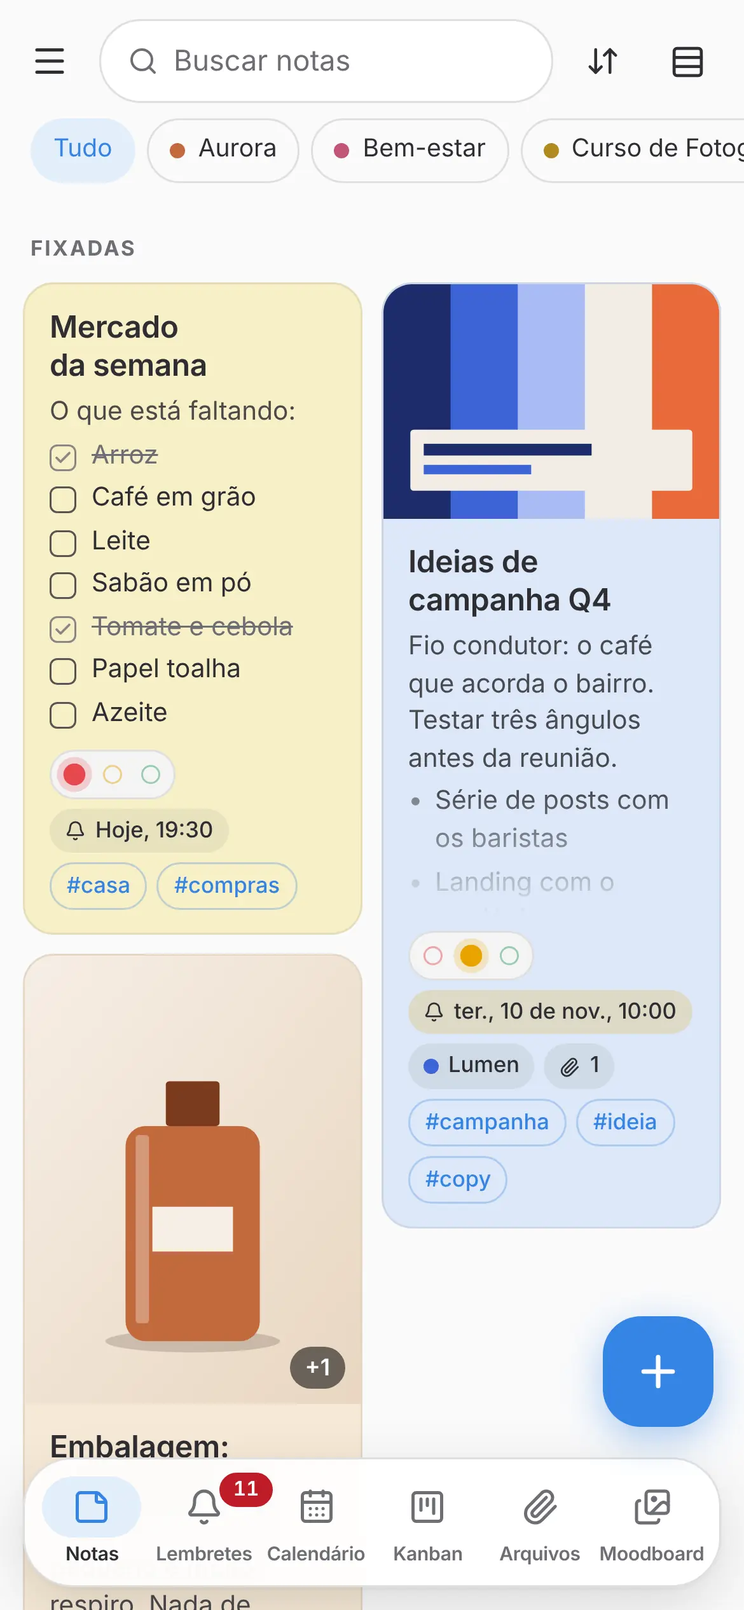
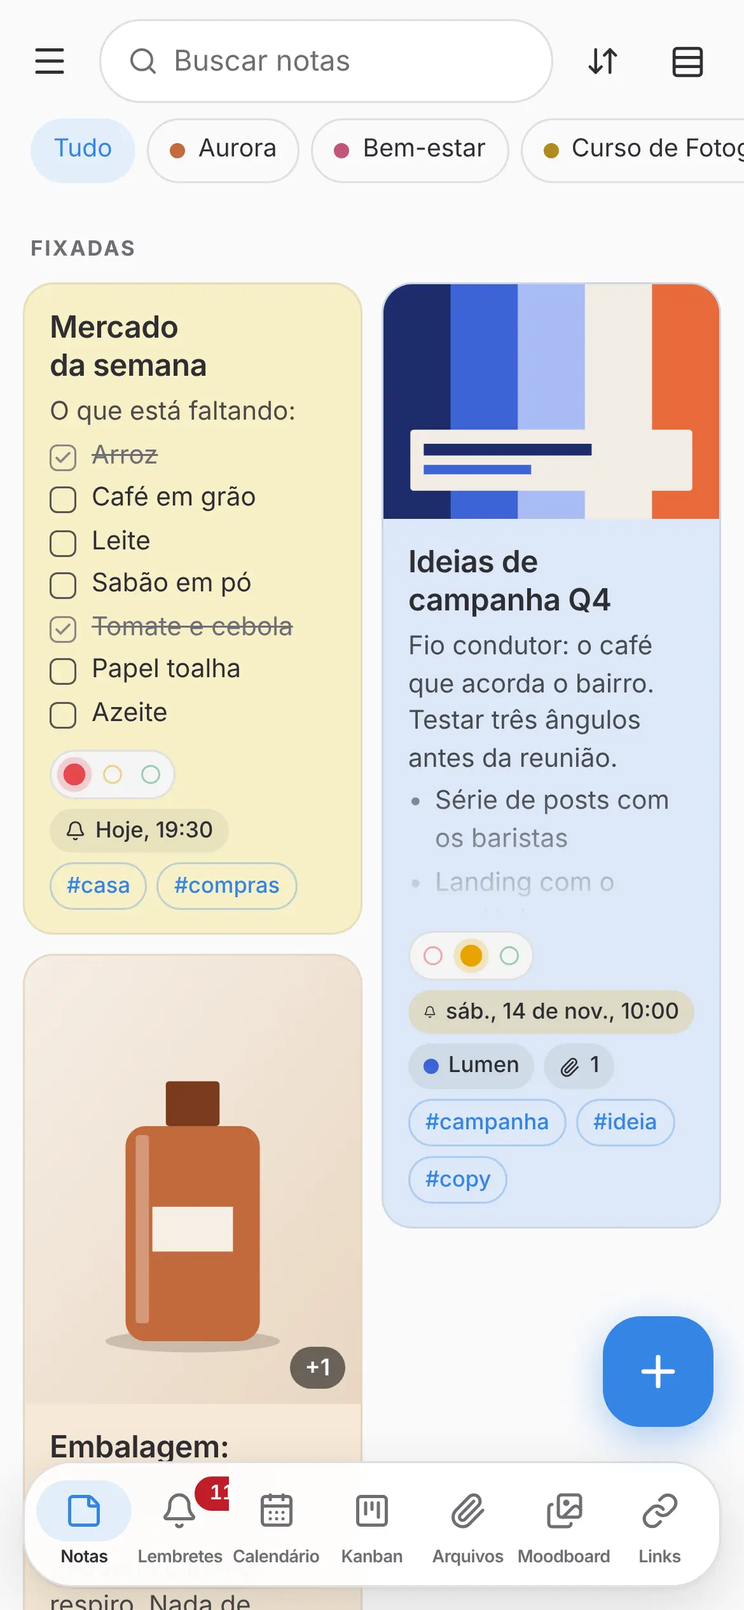
Site e README: versão 0.8, a visão Links (prints novos)
Claude-Session: https://claude.ai/code/session_017UoQrVG1M5AUcrq2RHmQhu

diff --git a/site/pt/index.html b/site/pt/index.html
@@ -71,6 +71,7 @@
     "https://ideario.pages.dev/img/pt/notas.webp",
     "https://ideario.pages.dev/img/pt/nota.webp",
     "https://ideario.pages.dev/img/pt/prompt.webp",
+    "https://ideario.pages.dev/img/pt/links.webp",
     "https://ideario.pages.dev/img/pt/calendario.webp",
     "https://ideario.pages.dev/img/pt/kanban.webp"
   ],
@@ -85,7 +86,8 @@
     "Prompts para o Claude dentro do texto da nota",
     "Link na palavra, reunido numa lista de Links",
     "Abrir uma nota numa nova janela",
-    "Em português e inglês"
+    "Em português e inglês",
+    "Visão Links: todos os links das notas, com filtros por tipo, site, tag e status"
   ],
   "author": {
     "@type": "Person",
@@ -130,7 +132,7 @@
       <a class="btn primary" href="#baixar"><svg class="lucide" viewBox="0 0 24 24" width="18" height="18" fill="none" stroke="currentColor" stroke-width="2" stroke-linecap="round" stroke-linejoin="round" aria-hidden="true"><path d="M12 15V3"/><path d="M21 15v4a2 2 0 0 1-2 2H5a2 2 0 0 1-2-2v-4"/><path d="m7 10 5 5 5-5"/></svg>Baixar grátis</a>
       <a class="btn soft" href="https://github.com/wylho/ideario"><svg viewBox="0 0 16 16" width="18" height="18" aria-hidden="true"><path fill="currentColor" d="M8 0c4.42 0 8 3.58 8 8a8.013 8.013 0 0 1-5.45 7.59c-.4.08-.55-.17-.55-.38 0-.27.01-1.13.01-2.2 0-.75-.25-1.23-.54-1.48 1.78-.2 3.65-.88 3.65-3.95 0-.88-.31-1.59-.82-2.15.08-.2.36-1.02-.08-2.12 0 0-.67-.22-2.2.82-.64-.18-1.32-.27-2-.27-.68 0-1.36.09-2 .27-1.53-1.03-2.2-.82-2.2-.82-.44 1.1-.16 1.92-.08 2.12-.51.56-.82 1.28-.82 2.15 0 3.06 1.86 3.75 3.64 3.95-.23.2-.44.55-.51 1.07-.46.21-1.61.55-2.33-.66-.15-.24-.6-.83-1.23-.82-.67.01-.27.38.01.53.34.19.73.9.82 1.13.16.45.68 1.31 2.69.94 0 .67.01 1.3.01 1.49 0 .21-.15.45-.55.38A7.995 7.995 0 0 1 0 8c0-4.42 3.58-8 8-8Z"/></svg>Ver no GitHub</a>
     </div>
-    <p class="fine">Grátis e de código aberto · <a href="#novidades">Novo na versão 0.7: prompts para o Claude, link na palavra e a nota numa nova janela<svg class="lucide" viewBox="0 0 24 24" width="14" height="14" fill="none" stroke="currentColor" stroke-width="2" stroke-linecap="round" stroke-linejoin="round" aria-hidden="true"><path d="M5 12h14"/><path d="m12 5 7 7-7 7"/></svg></a></p>
+    <p class="fine">Grátis e de código aberto · <a href="#novidades">Novo na versão 0.8: a visão Links, todos os links das suas notas num lugar só<svg class="lucide" viewBox="0 0 24 24" width="14" height="14" fill="none" stroke="currentColor" stroke-width="2" stroke-linecap="round" stroke-linejoin="round" aria-hidden="true"><path d="M5 12h14"/><path d="m12 5 7 7-7 7"/></svg></a></p>
   </div>
 </section>
 
@@ -144,7 +146,7 @@
 <section class="section">
   <div class="wrap">
     <div class="section-head">
-      <span class="chip accent"><svg class="lucide" viewBox="0 0 24 24" width="14" height="14" fill="none" stroke="currentColor" stroke-width="2" stroke-linecap="round" stroke-linejoin="round" aria-hidden="true"><path d="M12.83 2.18a2 2 0 0 0-1.66 0L2.6 6.08a1 1 0 0 0 0 1.83l8.58 3.91a2 2 0 0 0 1.66 0l8.58-3.9a1 1 0 0 0 0-1.83z"/><path d="M2 12a1 1 0 0 0 .58.91l8.6 3.91a2 2 0 0 0 1.65 0l8.58-3.9A1 1 0 0 0 22 12"/><path d="M2 17a1 1 0 0 0 .58.91l8.6 3.91a2 2 0 0 0 1.65 0l8.58-3.9A1 1 0 0 0 22 17"/></svg>Uma nota, seis jeitos de ver</span>
+      <span class="chip accent"><svg class="lucide" viewBox="0 0 24 24" width="14" height="14" fill="none" stroke="currentColor" stroke-width="2" stroke-linecap="round" stroke-linejoin="round" aria-hidden="true"><path d="M12.83 2.18a2 2 0 0 0-1.66 0L2.6 6.08a1 1 0 0 0 0 1.83l8.58 3.91a2 2 0 0 0 1.66 0l8.58-3.9a1 1 0 0 0 0-1.83z"/><path d="M2 12a1 1 0 0 0 .58.91l8.6 3.91a2 2 0 0 0 1.65 0l8.58-3.9A1 1 0 0 0 22 12"/><path d="M2 17a1 1 0 0 0 .58.91l8.6 3.91a2 2 0 0 0 1.65 0l8.58-3.9A1 1 0 0 0 22 17"/></svg>Uma nota, sete jeitos de ver</span>
       <h2>Escreva uma vez. Veja do jeito que precisar.</h2>
       <p>Tudo começa numa nota. O resto são visões dela, e nada é copiado: mudou num lugar, mudou em todos. Categorias
       e tags filtram qualquer visão.</p>
@@ -156,6 +158,7 @@
       <div class="box"><span class="ico"><svg class="lucide" viewBox="0 0 24 24" width="20" height="20" fill="none" stroke="currentColor" stroke-width="2" stroke-linecap="round" stroke-linejoin="round" aria-hidden="true"><rect width="18" height="18" x="3" y="3" rx="2"/><path d="M8 7v7"/><path d="M12 7v4"/><path d="M16 7v9"/></svg></span><h3>Kanban</h3><p>Toda nota com status, em três colunas: a fazer, em andamento e concluído.</p></div>
       <div class="box"><span class="ico"><svg class="lucide" viewBox="0 0 24 24" width="20" height="20" fill="none" stroke="currentColor" stroke-width="2" stroke-linecap="round" stroke-linejoin="round" aria-hidden="true"><path d="m16 6-8.414 8.586a2 2 0 0 0 2.829 2.829l8.414-8.586a4 4 0 1 0-5.657-5.657l-8.379 8.551a6 6 0 1 0 8.485 8.485l8.379-8.551"/></svg></span><h3>Arquivos</h3><p>PDFs, áudios, vídeos e documentos de todas as notas, com leitor de PDF.</p></div>
       <div class="box"><span class="ico"><svg class="lucide" viewBox="0 0 24 24" width="20" height="20" fill="none" stroke="currentColor" stroke-width="2" stroke-linecap="round" stroke-linejoin="round" aria-hidden="true"><path d="m22 11-1.296-1.296a2.4 2.4 0 0 0-3.408 0L11 16"/><path d="M4 8a2 2 0 0 0-2 2v10a2 2 0 0 0 2 2h10a2 2 0 0 0 2-2"/><circle cx="13" cy="7" r="1" fill="currentColor"/><rect x="8" y="2" width="14" height="14" rx="2"/></svg></span><h3>Moodboard</h3><p>Todas as fotos num mural, com a paleta de cores de cada uma.</p></div>
+      <div class="box" style="grid-column: 1 / -1"><span class="ico"><svg class="lucide" viewBox="0 0 24 24" width="20" height="20" fill="none" stroke="currentColor" stroke-width="2" stroke-linecap="round" stroke-linejoin="round" aria-hidden="true"><path d="M10 13a5 5 0 0 0 7.54.54l3-3a5 5 0 0 0-7.07-7.07l-1.72 1.71"/><path d="M14 11a5 5 0 0 0-7.54-.54l-3 3a5 5 0 0 0 7.07 7.07l1.71-1.71"/></svg></span><h3>Links</h3><p>Todos os links das suas notas num lugar só, como um gerenciador de favoritos: filtre por tipo, site, tag ou status, e leia depois.</p></div>
     </div>
   </div>
 </section>
@@ -164,19 +167,21 @@
   <div class="wrap">
     <div class="section-head center">
       <span class="chip accent"><svg class="lucide" viewBox="0 0 24 24" width="14" height="14" fill="none" stroke="currentColor" stroke-width="2" stroke-linecap="round" stroke-linejoin="round" aria-hidden="true"><path d="M11.017 2.814a1 1 0 0 1 1.966 0l1.051 5.558a2 2 0 0 0 1.594 1.594l5.558 1.051a1 1 0 0 1 0 1.966l-5.558 1.051a2 2 0 0 0-1.594 1.594l-1.051 5.558a1 1 0 0 1-1.966 0l-1.051-5.558a2 2 0 0 0-1.594-1.594l-5.558-1.051a1 1 0 0 1 0-1.966l5.558-1.051a2 2 0 0 0 1.594-1.594z"/><path d="M20 2v4"/><path d="M22 4h-4"/><circle cx="4" cy="20" r="2"/></svg>Novidades</span>
-      <h2>Versão 0.7</h2>
-      <p>Prompts para o Claude dentro das notas, link na palavra e a nota numa janela só dela.</p>
+      <h2>Versão 0.8</h2>
+      <p>A visão Links: todos os links das suas notas num lugar só, como um gerenciador de favoritos.</p>
     </div>
     <div class="box news">
   <ul>
-    <li><b>Prompts:</b> marque um trecho da nota como instrução para o Claude (o botão ✦ ou Ctrl+Shift+P). Ele aparece em laranja, entre colchetes, e o Claude lê e segue.</li>
-    <li><b>Link na palavra:</b> escolha a palavra e aperte Ctrl+K; Ctrl+clique abre. Todos os links da nota se juntam numa lista <b>Links</b> no fim, onde dá para adicionar outros.</li>
-    <li><b>Abrir em nova janela:</b> a nota ganha uma janela só dela, ao lado da lista; o que muda aparece em todo lugar na hora.</li>
-    <li><b>Copiar como card</b> agora leva o lembrete, o status e as fotos e arquivos (até 25 MB), também para o Nodo.</li>
+    <li><b>Visão Links:</b> os cartões de link e os links na palavra de todas as notas, uma linha por endereço, com as notas onde cada um está.</li>
+    <li><b>Quatro jeitos de ver:</b> cards com a imagem da página, lista, só os títulos ou um mural de imagens.</li>
+    <li><b>Filtros:</b> por tipo (artigos, vídeos, áudio, imagens, documentos, código), por site, por tag e por status; agrupe por data, tag, site ou categoria.</li>
+    <li><b>Ler depois:</b> o + da visão Links salva um endereço numa nota nova em A fazer, com o título e a imagem da página. O status é o da própria nota, nas três cores.</li>
+    <li><b>O Claude</b> lista os seus links e salva links novos para você.</li>
   </ul>
-  <p class="muted">Na 0.6.5: o PDF da nota sai com o card no topo (cor, emoji, o título inteiro, categoria, lembrete, status e etiquetas), sempre em papel claro. Na 0.6.4: no celular, puxe a lista para baixo para sincronizar. Na 0.6.1 e na 0.6.3: a tabela da nota aparece no card fechado como um resumo (colunas e linhas).</p>
+  <p class="muted">Na 0.7: prompts para o Claude dentro do texto, link na palavra com a lista Links no fim de cada nota, a nota numa janela só dela e Copiar como card com fotos e arquivos.</p>
   <details>
     <summary>Versões anteriores</summary>
+    <p><b>0.6.1 a 0.6.5:</b> o PDF da nota com o card no topo, puxar para sincronizar no celular, a tabela no card fechado como resumo.</p>
     <p><b>0.6:</b> o Ideario em português e inglês (Configurações → Idioma); a licença passa a ser GPL-3.0-or-later.</p>
     <p><b>0.5:</b> um editor de notas novo, o mesmo do Nodo; mude o status da nota no próprio card, sem abrir.</p>
     <p><b>0.4:</b> calendário e kanban, status em três cores em qualquer nota, um ícone novo e sincronização mais rápida.</p>
@@ -239,6 +244,20 @@
         <p>Todas as imagens de todas as notas num mural só, com a paleta de cores de cada uma. Filtre por tom e encontre
     aquela referência sem lembrar em que nota ela estava.</p>
         <div class="media"><img src="/img/pt/moodboard.webp" width="2880" height="1800" loading="lazy" alt="Moodboard com as imagens das notas em mosaico e a paleta de cores de cada uma"></div>
+      </div>
+      <div class="card wide">
+        <div>
+          <h3>Todos os seus links num lugar só</h3>
+          <p>A visão Links junta todos os links das suas notas, como um gerenciador de favoritos: os cartões que você
+    colou e os links na palavra. O mesmo endereço em várias notas é uma linha só. As categorias funcionam como coleções e as tags como tags.</p>
+    <ul>
+      <li>Cards, lista, títulos ou um mural de imagens</li>
+      <li>Filtre por tipo, site, tag e status; agrupe por data, tag, site ou categoria</li>
+      <li>Salve um link no + e ele entra em A fazer, com o título e a imagem da página</li>
+      <li>O clique abre o site; a prévia mostra as notas onde ele está</li>
+    </ul>
+        </div>
+        <div class="media"><picture><source srcset="/img/pt/links-escuro.webp" media="(prefers-color-scheme: dark)"><img src="/img/pt/links.webp" width="2880" height="1800" loading="lazy" alt="A visão Links: cartões de link com a imagem da página, título, site, tags e o status de três cores"></picture></div>
       </div>
       <div class="card wide">
         <div>

diff --git a/site/index.html b/site/index.html
@@ -71,6 +71,7 @@
     "https://ideario.pages.dev/img/notas.webp",
     "https://ideario.pages.dev/img/nota.webp",
     "https://ideario.pages.dev/img/prompt.webp",
+    "https://ideario.pages.dev/img/links.webp",
     "https://ideario.pages.dev/img/calendario.webp",
     "https://ideario.pages.dev/img/kanban.webp"
   ],
@@ -85,7 +86,8 @@
     "Prompts for Claude inside the text of a note",
     "Links on words, collected in a Links list",
     "Open a note in its own window",
-    "English and Portuguese"
+    "English and Portuguese",
+    "Links view: every link from your notes, filtered by type, site, tag and status"
   ],
   "author": {
     "@type": "Person",
@@ -130,7 +132,7 @@
       <a class="btn primary" href="#baixar"><svg class="lucide" viewBox="0 0 24 24" width="18" height="18" fill="none" stroke="currentColor" stroke-width="2" stroke-linecap="round" stroke-linejoin="round" aria-hidden="true"><path d="M12 15V3"/><path d="M21 15v4a2 2 0 0 1-2 2H5a2 2 0 0 1-2-2v-4"/><path d="m7 10 5 5 5-5"/></svg>Download free</a>
       <a class="btn soft" href="https://github.com/wylho/ideario"><svg viewBox="0 0 16 16" width="18" height="18" aria-hidden="true"><path fill="currentColor" d="M8 0c4.42 0 8 3.58 8 8a8.013 8.013 0 0 1-5.45 7.59c-.4.08-.55-.17-.55-.38 0-.27.01-1.13.01-2.2 0-.75-.25-1.23-.54-1.48 1.78-.2 3.65-.88 3.65-3.95 0-.88-.31-1.59-.82-2.15.08-.2.36-1.02-.08-2.12 0 0-.67-.22-2.2.82-.64-.18-1.32-.27-2-.27-.68 0-1.36.09-2 .27-1.53-1.03-2.2-.82-2.2-.82-.44 1.1-.16 1.92-.08 2.12-.51.56-.82 1.28-.82 2.15 0 3.06 1.86 3.75 3.64 3.95-.23.2-.44.55-.51 1.07-.46.21-1.61.55-2.33-.66-.15-.24-.6-.83-1.23-.82-.67.01-.27.38.01.53.34.19.73.9.82 1.13.16.45.68 1.31 2.69.94 0 .67.01 1.3.01 1.49 0 .21-.15.45-.55.38A7.995 7.995 0 0 1 0 8c0-4.42 3.58-8 8-8Z"/></svg>View on GitHub</a>
     </div>
-    <p class="fine">Free and open source · <a href="#whats-new">New in version 0.7: prompts for Claude, links on words and notes in their own window<svg class="lucide" viewBox="0 0 24 24" width="14" height="14" fill="none" stroke="currentColor" stroke-width="2" stroke-linecap="round" stroke-linejoin="round" aria-hidden="true"><path d="M5 12h14"/><path d="m12 5 7 7-7 7"/></svg></a></p>
+    <p class="fine">Free and open source · <a href="#whats-new">New in version 0.8: the Links view, every link from your notes in one place<svg class="lucide" viewBox="0 0 24 24" width="14" height="14" fill="none" stroke="currentColor" stroke-width="2" stroke-linecap="round" stroke-linejoin="round" aria-hidden="true"><path d="M5 12h14"/><path d="m12 5 7 7-7 7"/></svg></a></p>
   </div>
 </section>
 
@@ -144,7 +146,7 @@
 <section class="section">
   <div class="wrap">
     <div class="section-head">
-      <span class="chip accent"><svg class="lucide" viewBox="0 0 24 24" width="14" height="14" fill="none" stroke="currentColor" stroke-width="2" stroke-linecap="round" stroke-linejoin="round" aria-hidden="true"><path d="M12.83 2.18a2 2 0 0 0-1.66 0L2.6 6.08a1 1 0 0 0 0 1.83l8.58 3.91a2 2 0 0 0 1.66 0l8.58-3.9a1 1 0 0 0 0-1.83z"/><path d="M2 12a1 1 0 0 0 .58.91l8.6 3.91a2 2 0 0 0 1.65 0l8.58-3.9A1 1 0 0 0 22 12"/><path d="M2 17a1 1 0 0 0 .58.91l8.6 3.91a2 2 0 0 0 1.65 0l8.58-3.9A1 1 0 0 0 22 17"/></svg>One note, six views</span>
+      <span class="chip accent"><svg class="lucide" viewBox="0 0 24 24" width="14" height="14" fill="none" stroke="currentColor" stroke-width="2" stroke-linecap="round" stroke-linejoin="round" aria-hidden="true"><path d="M12.83 2.18a2 2 0 0 0-1.66 0L2.6 6.08a1 1 0 0 0 0 1.83l8.58 3.91a2 2 0 0 0 1.66 0l8.58-3.9a1 1 0 0 0 0-1.83z"/><path d="M2 12a1 1 0 0 0 .58.91l8.6 3.91a2 2 0 0 0 1.65 0l8.58-3.9A1 1 0 0 0 22 12"/><path d="M2 17a1 1 0 0 0 .58.91l8.6 3.91a2 2 0 0 0 1.65 0l8.58-3.9A1 1 0 0 0 22 17"/></svg>One note, seven views</span>
       <h2>Write once. See it however you need.</h2>
       <p>Everything starts as a note. The rest are views of it, and nothing is copied: change it in one place and it
       changes everywhere. Categories and tags filter any view.</p>
@@ -156,6 +158,7 @@
       <div class="box"><span class="ico"><svg class="lucide" viewBox="0 0 24 24" width="20" height="20" fill="none" stroke="currentColor" stroke-width="2" stroke-linecap="round" stroke-linejoin="round" aria-hidden="true"><rect width="18" height="18" x="3" y="3" rx="2"/><path d="M8 7v7"/><path d="M12 7v4"/><path d="M16 7v9"/></svg></span><h3>Kanban</h3><p>Every note with a status, in three columns: to do, in progress and done.</p></div>
       <div class="box"><span class="ico"><svg class="lucide" viewBox="0 0 24 24" width="20" height="20" fill="none" stroke="currentColor" stroke-width="2" stroke-linecap="round" stroke-linejoin="round" aria-hidden="true"><path d="m16 6-8.414 8.586a2 2 0 0 0 2.829 2.829l8.414-8.586a4 4 0 1 0-5.657-5.657l-8.379 8.551a6 6 0 1 0 8.485 8.485l8.379-8.551"/></svg></span><h3>Files</h3><p>PDFs, audio, video and documents from all your notes, with a built-in PDF reader.</p></div>
       <div class="box"><span class="ico"><svg class="lucide" viewBox="0 0 24 24" width="20" height="20" fill="none" stroke="currentColor" stroke-width="2" stroke-linecap="round" stroke-linejoin="round" aria-hidden="true"><path d="m22 11-1.296-1.296a2.4 2.4 0 0 0-3.408 0L11 16"/><path d="M4 8a2 2 0 0 0-2 2v10a2 2 0 0 0 2 2h10a2 2 0 0 0 2-2"/><circle cx="13" cy="7" r="1" fill="currentColor"/><rect x="8" y="2" width="14" height="14" rx="2"/></svg></span><h3>Moodboard</h3><p>All your photos on one board, each with its own color palette.</p></div>
+      <div class="box" style="grid-column: 1 / -1"><span class="ico"><svg class="lucide" viewBox="0 0 24 24" width="20" height="20" fill="none" stroke="currentColor" stroke-width="2" stroke-linecap="round" stroke-linejoin="round" aria-hidden="true"><path d="M10 13a5 5 0 0 0 7.54.54l3-3a5 5 0 0 0-7.07-7.07l-1.72 1.71"/><path d="M14 11a5 5 0 0 0-7.54-.54l-3 3a5 5 0 0 0 7.07 7.07l1.71-1.71"/></svg></span><h3>Links</h3><p>Every link from your notes in one place, like a bookmark manager: filter by type, site, tag or status, and read later.</p></div>
     </div>
   </div>
 </section>
@@ -164,19 +167,21 @@
   <div class="wrap">
     <div class="section-head center">
       <span class="chip accent"><svg class="lucide" viewBox="0 0 24 24" width="14" height="14" fill="none" stroke="currentColor" stroke-width="2" stroke-linecap="round" stroke-linejoin="round" aria-hidden="true"><path d="M11.017 2.814a1 1 0 0 1 1.966 0l1.051 5.558a2 2 0 0 0 1.594 1.594l5.558 1.051a1 1 0 0 1 0 1.966l-5.558 1.051a2 2 0 0 0-1.594 1.594l-1.051 5.558a1 1 0 0 1-1.966 0l-1.051-5.558a2 2 0 0 0-1.594-1.594l-5.558-1.051a1 1 0 0 1 0-1.966l5.558-1.051a2 2 0 0 0 1.594-1.594z"/><path d="M20 2v4"/><path d="M22 4h-4"/><circle cx="4" cy="20" r="2"/></svg>What’s new</span>
-      <h2>Version 0.7</h2>
-      <p>Prompts for Claude inside your notes, links on words and notes in their own window.</p>
+      <h2>Version 0.8</h2>
+      <p>The Links view: every link from your notes in one place, like a bookmark manager.</p>
     </div>
     <div class="box news">
   <ul>
-    <li><b>Prompts:</b> mark part of a note as an instruction for Claude (the ✦ button or Ctrl+Shift+P). It shows in orange, between brackets, and Claude reads and follows it.</li>
-    <li><b>Links on words:</b> select a word and press Ctrl+K; Ctrl+click opens it. Every link in the note is gathered in a <b>Links</b> list at the end, where you can also add one.</li>
-    <li><b>Open in new window:</b> a note can get a window of its own, next to the list; changes show up everywhere right away.</li>
-    <li><b>Copy as card</b> now carries the reminder, the status and the photos and files (up to 25 MB), also into Nodo.</li>
+    <li><b>Links view:</b> link cards and links on words from every note, one row per address, with the notes each one is in.</li>
+    <li><b>Four ways to look:</b> cards with the page’s image, a list, headlines only, or a wall of images.</li>
+    <li><b>Filters:</b> by type (articles, videos, audio, images, documents, code), by site, by tag and by status; group by date, tag, site or category.</li>
+    <li><b>Read later:</b> the + in the Links view saves an address as a new note in To do, with the page’s title and image. The status is the note’s own three colors.</li>
+    <li><b>Claude</b> can list your links and save new ones for you.</li>
   </ul>
-  <p class="muted">In 0.6.5: a note’s PDF opens with the card on top (color, emoji, the full title, category, reminder, status and tags), always on light paper. In 0.6.4: on the phone, pull the list down to sync. In 0.6.1 and 0.6.3: tables in a note show on the closed card as a summary (columns and rows).</p>
+  <p class="muted">In 0.7: prompts for Claude inside the text, links on words with a Links list at the end of each note, notes in their own window, and Copy as card with photos and files.</p>
   <details>
     <summary>Earlier versions</summary>
+    <p><b>0.6.1 to 0.6.5:</b> the note’s PDF with the card on top, pull to sync on the phone, tables on the closed card as a summary.</p>
     <p><b>0.6:</b> Ideario in English and Portuguese (Settings → Language); the license is now GPL-3.0-or-later.</p>
     <p><b>0.5:</b> a new note editor, shared with Nodo; change a note’s status right on its card, without opening it.</p>
     <p><b>0.4:</b> calendar and kanban views, a three-color status on any note, a new icon and faster sync.</p>
@@ -240,6 +245,20 @@
         <p>Every image from every note on a single board, each with its color palette. Filter by tone and find that
     reference without remembering which note it was in.</p>
         <div class="media"><img src="/img/moodboard.webp" width="2880" height="1800" loading="lazy" alt="Moodboard with images from the notes in a mosaic, each with its color palette"></div>
+      </div>
+      <div class="card wide">
+        <div>
+          <h3>All your links in one place</h3>
+          <p>The Links view gathers every link from your notes, like a bookmark manager: the cards you pasted and the
+    links on words. The same address in several notes is a single row. Categories work as collections and tags as tags.</p>
+    <ul>
+      <li>Cards, list, headlines or a wall of images</li>
+      <li>Filter by type, site, tag and status; group by date, tag, site or category</li>
+      <li>Save a link with + and it lands in To do, with the page’s title and image</li>
+      <li>Click opens the site; the preview shows the notes it is in</li>
+    </ul>
+        </div>
+        <div class="media"><picture><source srcset="/img/links-escuro.webp" media="(prefers-color-scheme: dark)"><img src="/img/links.webp" width="2880" height="1800" loading="lazy" alt="The Links view: link cards with the page image, title, site, tags and the three-color status"></picture></div>
       </div>
       <div class="card wide">
         <div>

diff --git a/README.md b/README.md
@@ -13,7 +13,7 @@ A free, open-source, local-first notes app with reminders, a calendar and a kanb
 you need. It opens instantly, works offline and keeps everything on your computer. If you want, it syncs through your own
 Google Drive. A private Google Keep alternative for Windows, macOS, Linux and Android.</p>
 
-<p align="center"><a href="#whats-new-in-version-07"><b>New in version 0.7: prompts for Claude, links on words and notes in their own window →</b></a></p>
+<p align="center"><a href="#whats-new-in-version-08"><b>New in version 0.8: the Links view, every link from your notes in one place →</b></a></p>
 
 <p align="center">
   <b>Windows · macOS · Linux · Android</b><br>
@@ -29,7 +29,7 @@ Google Drive. A private Google Keep alternative for Windows, macOS, Linux and An
   <img src="site/img/notas.webp" alt="Ideario main screen: colorful note cards with checklists, photos and reminders, and categories in the sidebar">
 </picture>
 
-## One note, six views
+## One note, seven views
 
 Everything starts as a note. The rest are views of it, and nothing is copied: change it in one place and it changes
 everywhere. Categories and tags filter any view.
@@ -42,18 +42,22 @@ everywhere. Categories and tags filter any view.
 | **Kanban** | Every note with a status, in three columns: to do, in progress and done. |
 | **Files** | PDFs, audio, video and documents from all your notes, with a built-in PDF reader. |
 | **Moodboard** | All your photos on one board, each with its own color palette. |
+| **Links** | Every link from your notes in one place, like a bookmark manager: filter by type, site, tag or status, and read later. |
 
-## What’s new in version 0.7
+## What’s new in version 0.8
 
-- **Prompts:** mark part of a note as an instruction for Claude (the ✦ button or Ctrl+Shift+P). It shows in orange, between brackets, and Claude reads and follows it.
-- **Links on words:** select a word and press Ctrl+K; Ctrl+click opens it. Every link in the note is gathered in a **Links** list at the end, where you can also add one.
-- **Open in new window:** a note can get a window of its own, next to the list; changes show up everywhere right away.
-- **Copy as card** now carries the reminder, the status and the photos and files (up to 25 MB), also into Nodo.
+- **Links view:** link cards and links on words from every note, one row per address, with the notes each one is in.
+- **Four ways to look:** cards with the page’s image, a list, headlines only, or a wall of images.
+- **Filters:** by type (articles, videos, audio, images, documents, code), by site, by tag and by status; group by date, tag, site or category.
+- **Read later:** the + in the Links view saves an address as a new note in To do, with the page’s title and image. The status is the note’s own three colors.
+- **Claude** can list your links and save new ones for you.
 
-In 0.6.5: a note’s PDF opens with the card on top (color, emoji, the full title, category, reminder, status and tags), always on light paper. In 0.6.4: on the phone, pull the list down to sync. In 0.6.1 and 0.6.3: tables in a note show on the closed card as a summary (columns and rows).
+In 0.7: prompts for Claude inside the text, links on words with a Links list at the end of each note, notes in their own window, and Copy as card with photos and files.
 
 <details>
 <summary>Earlier versions</summary>
+
+**0.6.1 to 0.6.5:** the note’s PDF with the card on top, pull to sync on the phone, tables on the closed card as a summary.
 
 **0.6:** Ideario in English and Portuguese (Settings → Language); the license is now GPL-3.0-or-later.
 
@@ -113,6 +117,21 @@ Every image from every note on a single board, each with its color palette. Filt
 without remembering which note it was in.
 
 <img src="site/img/moodboard.webp" alt="Moodboard with images from the notes in a mosaic, each with its color palette">
+
+## All your links in one place
+
+The Links view gathers every link from your notes, like a bookmark manager: the cards you pasted and the links on
+words. The same address in several notes is a single row. Categories work as collections and tags as tags.
+
+- Cards, list, headlines or a wall of images
+- Filter by type, site, tag and status; group by date, tag, site or category
+- Save a link with + and it lands in To do, with the page’s title and image
+- Click opens the site; the preview shows the notes it is in
+
+<picture>
+  <source srcset="site/img/links-escuro.webp" media="(prefers-color-scheme: dark)">
+  <img src="site/img/links.webp" alt="The Links view: link cards with the page image, title, site, tags and the three-color status">
+</picture>
 
 ## When a note grows, it becomes a document
 
